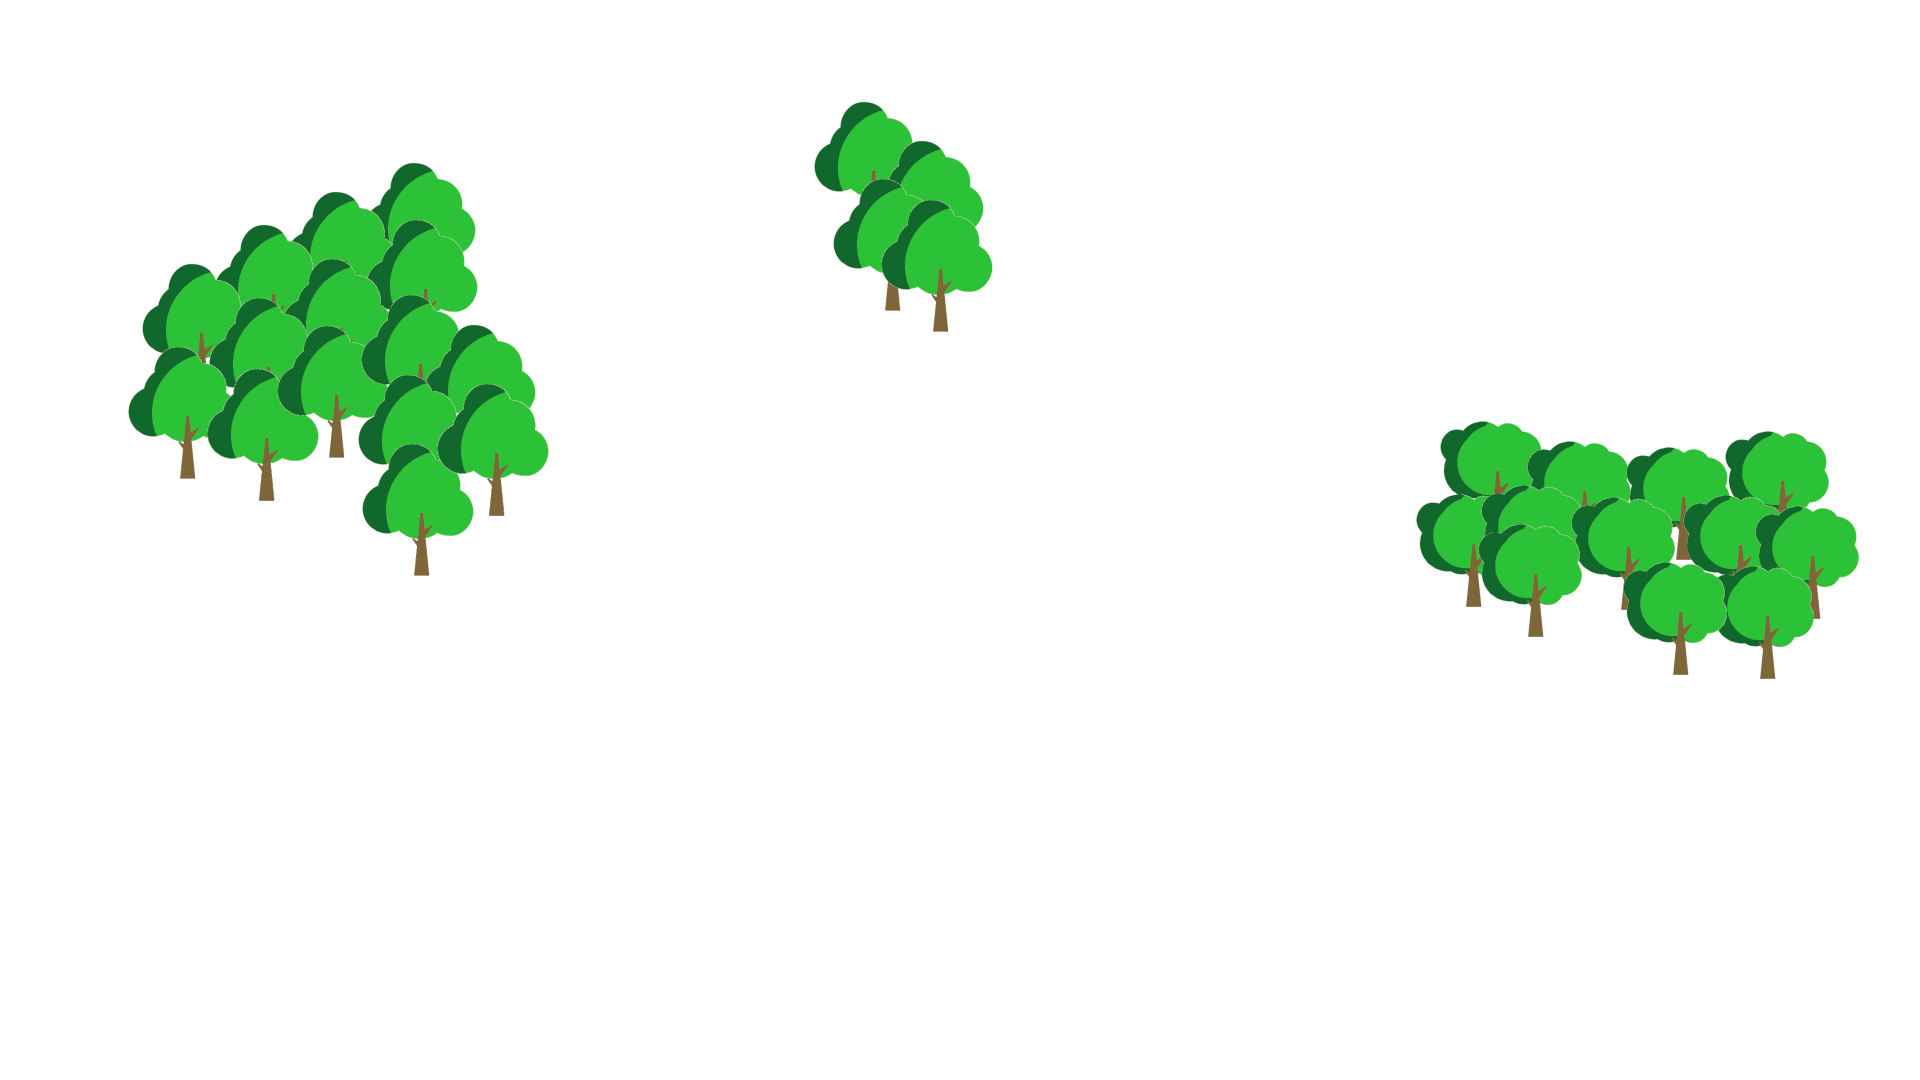
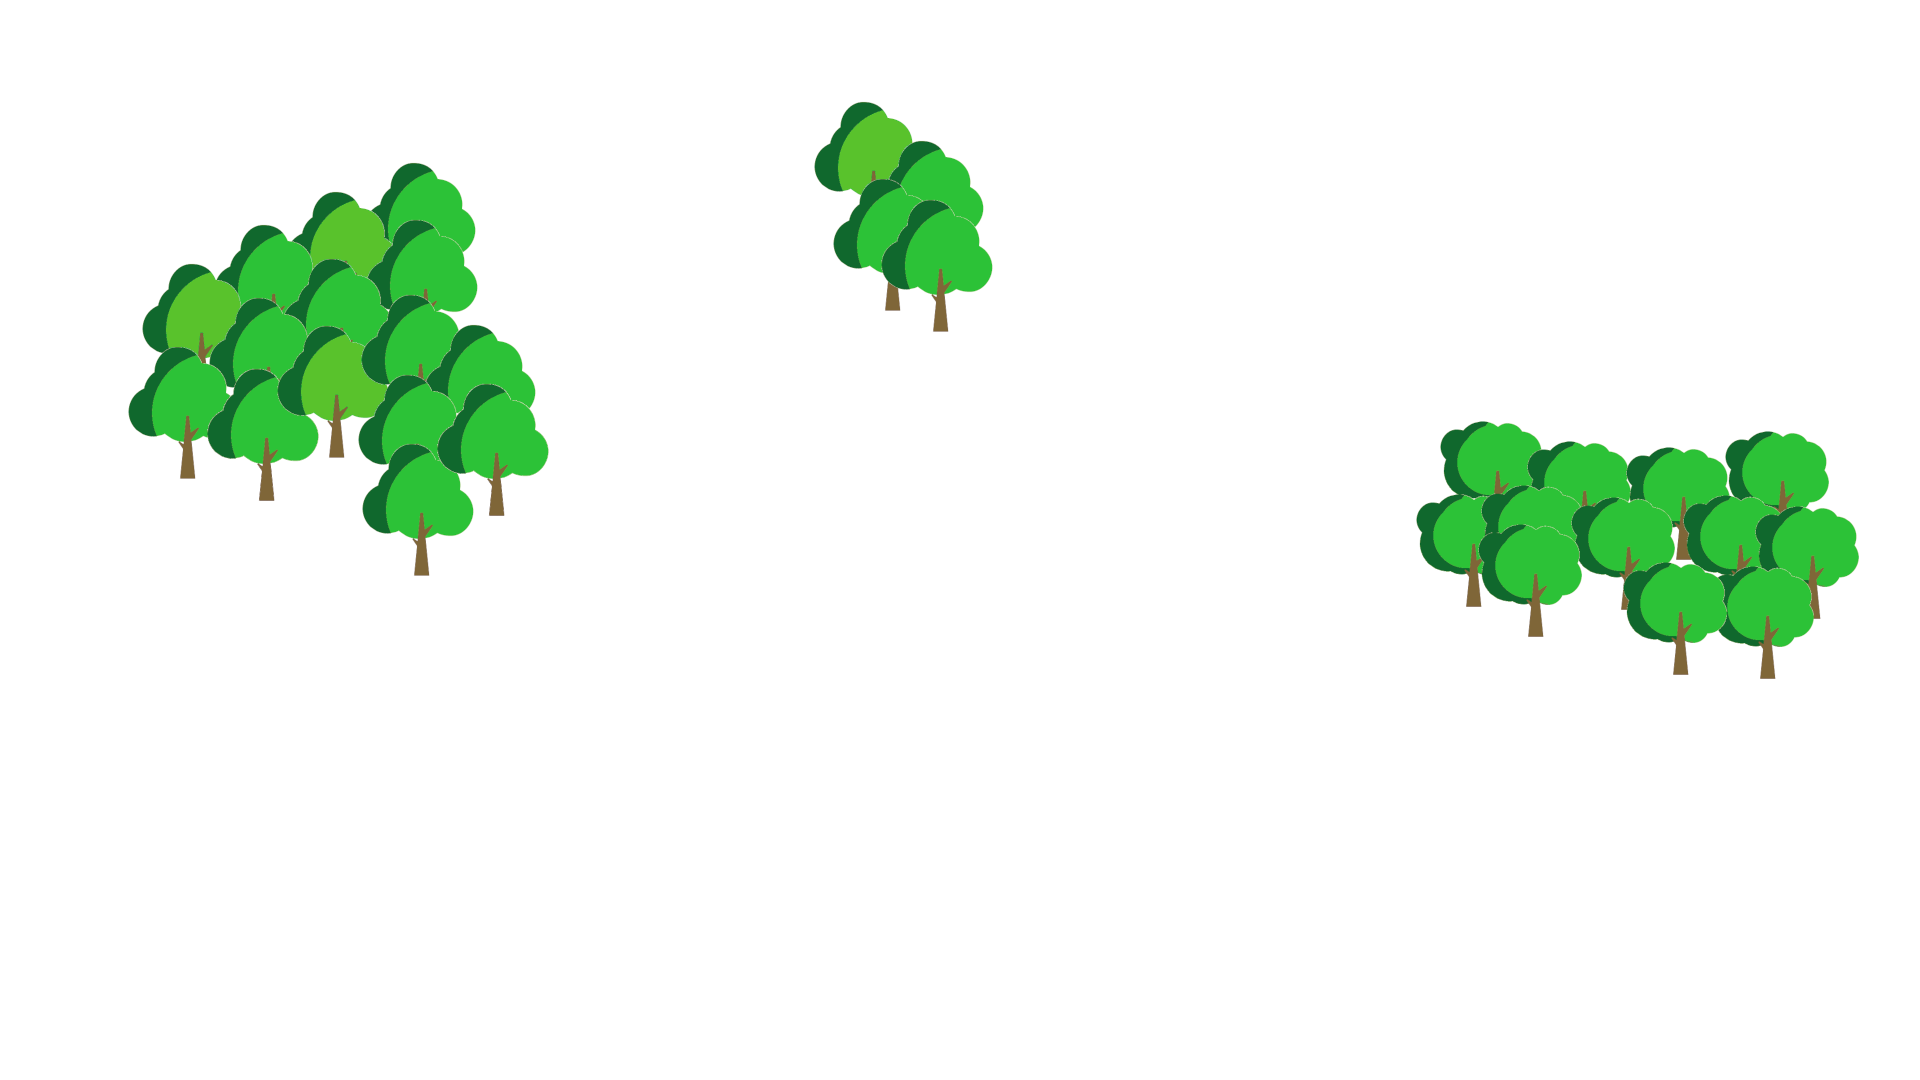
Blocker images added to map; boolean unlocked fields added to user model (actually signup); clickable regions made unavailable per user unlocked regions

diff --git a/production/src/routes/game_map.jsx b/production/src/routes/game_map.jsx
@@ -4,10 +4,37 @@ import {loadFull} from "tsparticles"
 import MapSVG from "../assets/images/mapSVG"
 import Nodeman from "../assets/images/nodeman"
 import Skeleton from '@mui/material/Skeleton';
-import React,{ useState } from 'react';
-
+import React,{ useState, useEffect } from 'react';
 
 export default function Game_Map() {
+    const [loaded, setLoaded] = useState(false);
+  // const { username, isLoggedIn } = useContext(LoginContext);
+
+  const [user, setUser] = useState({}); // Change to object
+
+  const fetchUserData = async () => {
+    try {
+      const response = await fetch("http://localhost:3000/api/user", {
+        headers: {
+          Authorization: `Bearer ${localStorage.getItem('accessToken')}`
+        }
+      });
+
+      if (response.status === 200) {
+        const data = await response.json();
+        setUser(data);
+      } else {
+        console.error('Error fetching user data');
+      }
+    } catch (error) {
+      console.error('Error fetching user data', error);
+    }
+  };
+
+  useEffect(() => {
+    fetchUserData()
+  }, []);
+
     {/*required stuff to make the waves exist*/}
     const particlesInit = async (main) => {
         console.log(main);
@@ -17,8 +44,6 @@ export default function Game_Map() {
       const particlesLoaded = (container) => {
         console.log(container);
       }
-
-      const [loaded, setLoaded] = useState(false);
 
     return (
         <> 
@@ -98,21 +123,52 @@ export default function Game_Map() {
             }
                 <img className="mapImg" src={IMAGES.layer1 } style={loaded ? {}:{display: 'none'}} onLoad={() =>setLoaded(true)}/>
                 <div className="childLayer"><img className="mapImg" src={IMAGES.layer2} style={loaded ? {}:{display: 'none'}} onLoad={() =>setLoaded(true)}/></div>
-                <div className="childLayer"><img className="mapImg" src={IMAGES.layer3} style={loaded ? {}:{display: 'none'}} onLoad={() =>setLoaded(true)}/></div>
+                
+                {user.triesUnlocked && (
+                    <div className="childLayer"><img className="mapImg" src={IMAGES.layer3a} style={loaded ? {}:{display: 'none'}} onLoad={() =>setLoaded(true)}/></div>)}
+                {user.treesUnlocked && (
+                    <div className="childLayer"><img className="mapImg" src={IMAGES.layer3b} style={loaded ? {}:{display: 'none'}} onLoad={() =>setLoaded(true)}/></div>)}
+                {user.sqUnlocked && (
+                    <div className="childLayer"><img className="mapImg" src={IMAGES.layer3c} style={loaded ? {}:{display: 'none'}} onLoad={() =>setLoaded(true)}/></div>)}
+                <div className="childLayer"><img className="mapImg" src={IMAGES.layer3d} style={loaded ? {}:{display: 'none'}} onLoad={() =>setLoaded(true)}/></div>
+                
+                {!user.treesUnlocked && (
+                    <div className="childLayer"><img className="mapImg" src={IMAGES.layer4a} style={loaded ? {}:{display: 'none'}} onLoad={() =>setLoaded(true)}/></div>)}
+                {!user.triesUnlocked && (
+                    <div className="childLayer"><img className="mapImg" src={IMAGES.layer4b} style={loaded ? {}:{display: 'none'}} onLoad={() =>setLoaded(true)}/></div>)}
                 <div className="childLayer"><img className="mapImg" src={IMAGES.layer4} style={loaded ? {}:{display: 'none'}} onLoad={() =>setLoaded(true)}/></div>
-                <div className="childLayer"><img className="mapImg" src={IMAGES.layer5} style={loaded ? {}:{display: 'none'}} onLoad={() =>setLoaded(true)}/></div>
+                
+                
+                {user.DLLUnlocked && (
+                    <div className="childLayer"><img className="mapImg" src={IMAGES.layer5} style={loaded ? {}:{display: 'none'}} onLoad={() =>setLoaded(true)}/></div>)}
+                
                 <div className="childLayer"><img className="mapImg" src={IMAGES.layer6} style={loaded ? {}:{display: 'none'}} onLoad={() =>setLoaded(true)}/></div>
                 <div className="childLayer"><img className="mapImg" src={IMAGES.layer7} style={loaded ? {}:{display: 'none'}} onLoad={() =>setLoaded(true)}/></div>
                 <div className="childLayer"><img className="mapImg" src={IMAGES.layer8} style={loaded ? {}:{display: 'none'}} onLoad={() =>setLoaded(true)}/></div>
-                <div className="childLayer" id="train"><img className="mapImg" src={IMAGES.train} style={loaded ? {}:{display: 'none'}} onLoad={() =>setLoaded(true)}/></div>
+                
+                {user.DLLUnlocked && (
+                    <div className="childLayer" id="train"><img className="mapImg" src={IMAGES.train} style={loaded ? {}:{display: 'none'}} onLoad={() =>setLoaded(true)}/></div>)}
+                
                 <div className="childLayer"><img className="mapImg" src={IMAGES.layer10} style={loaded ? {}:{display: 'none'}} onLoad={() =>setLoaded(true)}/></div>
-                <div className="childLayer"><img className="mapImg" src={IMAGES.layer11} style={loaded ? {}:{display: 'none'}} onLoad={() =>setLoaded(true)}/></div>
+                
+                {user.sqUnlocked &&(
+                    <div className="childLayer"><img className="mapImg" src={IMAGES.layer11} style={loaded ? {}:{display: 'none'}} onLoad={() =>setLoaded(true)}/></div>)}
+                
                 <div className="childLayer"><img className="mapImg" src={IMAGES.layer12} style={loaded ? {}:{display: 'none'}} onLoad={() =>setLoaded(true)}/></div>
-                <div className="childLayer"><img className="mapImg" src={IMAGES.layer13} style={loaded ? {}:{display: 'none'}} onLoad={() =>setLoaded(true)}/></div>
+                {user.triesUnlocked && (
+                    <div className="childLayer"><img className="mapImg" src={IMAGES.layer13} style={loaded ? {}:{display: 'none'}} onLoad={() =>setLoaded(true)}/></div>)}
+                
                 <div className="childLayer"><img className="mapImg" src={IMAGES.layer14} style={loaded ? {}:{display: 'none'}} onLoad={() =>setLoaded(true)}/></div>
-                <div className="childLayer"><img className="mapImg" src={IMAGES.layer15} style={loaded ? {}:{display: 'none'}} onLoad={() =>setLoaded(true)}/></div>
+                
+                {user.treesUnlocked && (
+                    <div className="childLayer"><img className="mapImg" src={IMAGES.layer15} style={loaded ? {}:{display: 'none'}} onLoad={() =>setLoaded(true)}/></div>)}
+                {!user.DLLUnlocked && (
+                    <div className="childLayer"><img className="mapImg" src={IMAGES.layer18} style={loaded ? {}:{display: 'none'}} onLoad={() =>setLoaded(true)}/></div>)}
+                {!user.sqUnlocked && (
+                    <div className="childLayer"><img className="mapImg" src={IMAGES.layer19} style={loaded ? {}:{display: 'none'}} onLoad={() =>setLoaded(true)}/></div>)}
                 <div className="childLayer"><img className="mapImg" src={IMAGES.layer16} style={loaded ? {}:{display: 'none'}} onLoad={() =>setLoaded(true)}/></div>
                 <div className="childLayer"><img className="mapImg" src={IMAGES.layer17} style={loaded ? {}:{display: 'none'}} onLoad={() =>setLoaded(true)}/></div>
+                
                 <div className="childLayer">
                     <div className="svgContainer"><MapSVG style={loaded ? {}:{display: 'none'}} onLoad={() =>setLoaded(true)}/></div>
                 </div>

diff --git a/production/src/assets/images/mapSVG.jsx b/production/src/assets/images/mapSVG.jsx
@@ -1,13 +1,42 @@
-import * as React from "react"
+import React from "react"
 import { Link } from "react-router-dom"
+import { useEffect, useState } from 'react'
+
+
 
 function SvgComponent(props) {
+  const [user, setUser] = useState({}); // Change to object
+
+  const fetchUserData = async () => {
+    try {
+      const response = await fetch("http://localhost:3000/api/user", {
+        headers: {
+          Authorization: `Bearer ${localStorage.getItem('accessToken')}`
+        }
+      });
+
+      if (response.status === 200) {
+        const data = await response.json();
+        setUser(data);
+      } else {
+        console.error('Error fetching user data');
+      }
+    } catch (error) {
+      console.error('Error fetching user data', error);
+    }
+  };
+
+  useEffect(() => {
+    fetchUserData()
+  }, []);
+
   return (
     <svg
       viewBox="0 0 614.40002 345.60001"
       xmlns="http://www.w3.org/2000/svg"
       {...props}
     >
+      
       <Link to="/">
       <path
         id="schoolPoly"
@@ -16,14 +45,15 @@ function SvgComponent(props) {
         fillOpacity={0}
       />
       </Link>
-      <Link to="/">
-      <path
-        id="dinerPoly"
-        d="m 305.6767,149.28397 h 86.32067 l 2.53884,8.63207 10.15537,5.07769 2.03107,39.09819 -95.4605,1.01554 -9.6476,-27.92729 z"
-        fill="#fffd31"
-        fillOpacity={0}
-      />
-      </Link>
+      {user.sqUnlocked && (
+        <Link to="/">
+        <path
+          id="dinerPoly"
+          d="m 305.6767,149.28397 h 86.32067 l 2.53884,8.63207 10.15537,5.07769 2.03107,39.09819 -95.4605,1.01554 -9.6476,-27.92729 z"
+          fill="#fffd31"
+          fillOpacity={0}
+        />
+        </Link>)}
       <Link to="/">
       <path
         id="libraryPoly"
@@ -40,32 +70,35 @@ function SvgComponent(props) {
         d="M225.95703 244.74448H262.008612V285.36597800000004H225.95703z"
       />
       </Link>
-      <Link to="/doubly-linked-lists">
-      <path
-        id="station2Poly"
-        d="M498.121 190.413l5.58-5.813 54.844-1.296v44.684h-66.01l.88-24.903 4.364-3.49z"
-        fill="#fffd31"
-        fillOpacity={0}
-      />
-      </Link>
-      <Link to="/">
-      <path
-        id="treesPoly"
-        transform="translate(49.761 32.497)"
-        d="M354.423 60.932l-86.355-2.087-15.753-1.486-1.594-13.722-3.98-12.72 34.31-29.461 6.854-18.72 49.795 3.61 10.825 29.363 17.61 7.704z"
-        fill="#fffd31"
-        fillOpacity={0}
-      />
-      </Link>
-      <Link to="/">
-      <path
-        id="triesPoly"
-        transform="translate(51.285 32.497)"
-        d="M466.64 94.953L360.644 97.98c.172-10.156-.883-20.31 1.015-27.42l10.258-16.573c15.872-.014 21.288-4.048 19.572-10.827 9.23-21.996 10.408-25.206 31.352-31.462l15.352 9.812c4.863 8.934-1.661 40.971 23.747 30.302l-.15 6.798 12.807 15.014z"
-        fill="#fffd31"
-        fillOpacity={0}
-      />
-      </Link>
+      {user.DLLUnlocked && (
+        <Link to="/doubly-linked-lists">
+        <path
+          id="station2Poly"
+          d="M498.121 190.413l5.58-5.813 54.844-1.296v44.684h-66.01l.88-24.903 4.364-3.49z"
+          fill="#fffd31"
+          fillOpacity={0}
+        />
+        </Link>)}
+      {user.treesUnlocked && (
+        <Link to="/">
+        <path
+          id="treesPoly"
+          transform="translate(49.761 32.497)"
+          d="M354.423 60.932l-86.355-2.087-15.753-1.486-1.594-13.722-3.98-12.72 34.31-29.461 6.854-18.72 49.795 3.61 10.825 29.363 17.61 7.704z"
+          fill="#fffd31"
+          fillOpacity={0}
+        />
+        </Link>)}
+      {user.triesUnlocked && (
+        <Link to="/">
+        <path
+          id="triesPoly"
+          transform="translate(51.285 32.497)"
+          d="M466.64 94.953L360.644 97.98c.172-10.156-.883-20.31 1.015-27.42l10.258-16.573c15.872-.014 21.288-4.048 19.572-10.827 9.23-21.996 10.408-25.206 31.352-31.462l15.352 9.812c4.863 8.934-1.661 40.971 23.747 30.302l-.15 6.798 12.807 15.014z"
+          fill="#fffd31"
+          fillOpacity={0}
+        />
+        </Link>)}
       <Link to="/singly-linked-lists">
       <path
         id="station1Poly"

diff --git a/production/src/assets/images/Images.jsx b/production/src/assets/images/Images.jsx
@@ -1,8 +1,13 @@
 const IMAGES = {
     layer1 : new URL('./layer1-ocean.png',import.meta.url).href,
     layer2 : new URL('./layer2-tw_island.png',import.meta.url).href,
-    layer3 : new URL('./layer3-path.png',import.meta.url).href,
+    layer3a : new URL('./layer3a-path3.png',import.meta.url).href,
+    layer3b: new URL('./layer3b-path2.png',import.meta.url).href,
+    layer3c: new URL('./layer3c-path1.png',import.meta.url).href,
+    layer3d: new URL('./layer3d-path0.png',import.meta.url).href,
     layer4 : new URL('./layer4-forest_back.png',import.meta.url).href,
+    layer4a: new URL('./layer4a-blockers2.png', import.meta.url).href,
+    layer4b: new URL('./layer4b-blockers3.png', import.meta.url).href,
     layer5 : new URL('./layer5-station2.png',import.meta.url).href,
     layer6 : new URL('./layer6-tracks.png',import.meta.url).href,
     layer7 : new URL('./layer7-vendingmachine.png',import.meta.url).href,
@@ -16,6 +21,8 @@ const IMAGES = {
     layer15: new URL('./layer15-trees.png', import.meta.url).href,
     layer16: new URL('./layer16-forest_front.png', import.meta.url).href,
     layer17: new URL('./layer17-bridge_front.png', import.meta.url).href,
+    layer18: new URL('./layer18-blockers0.png',import.meta.url).href,
+    layer19: new URL('./layer19-blockers1.png',import.meta.url).href,
     mapLinks: new URL('./mapLinks.svg',import.meta.url).href,
     trainimg: new URL('./traingamesnip.PNG', import.meta.url).href,
     quiz: new URL('./comic-quiz.jpg', import.meta.url).href,

diff --git a/models/SignUp.js b/models/SignUp.js
@@ -31,6 +31,26 @@ module.exports = (sequelize, DataTypes) => {
             type: DataTypes.INTEGER,
             allowNull: false,
             defaultValue: 0
+        },
+        DLLUnlocked: {
+            type: DataTypes.BOOLEAN,
+            allowNull: false,
+            defaultValue: false
+        },
+        sqUnlocked:{
+            type: DataTypes.BOOLEAN,
+            allowNull: false,
+            defaultValue: false
+        },
+        treesUnlocked:{
+            type: DataTypes.BOOLEAN,
+            allowNull: false,
+            defaultValue: false
+        },
+        triesUnlocked:{
+            type: DataTypes.BOOLEAN,
+            allowNull: false,
+            defaultValue: false
         }
     });
 
